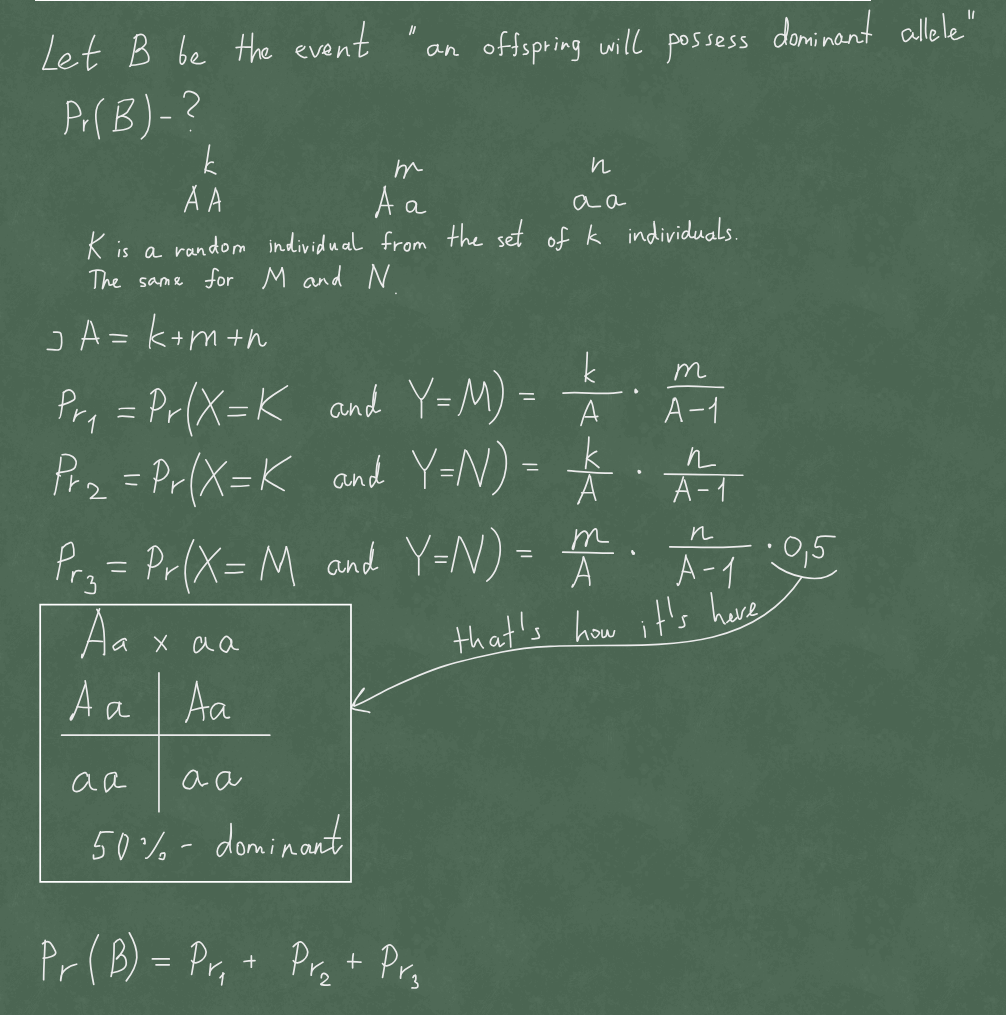
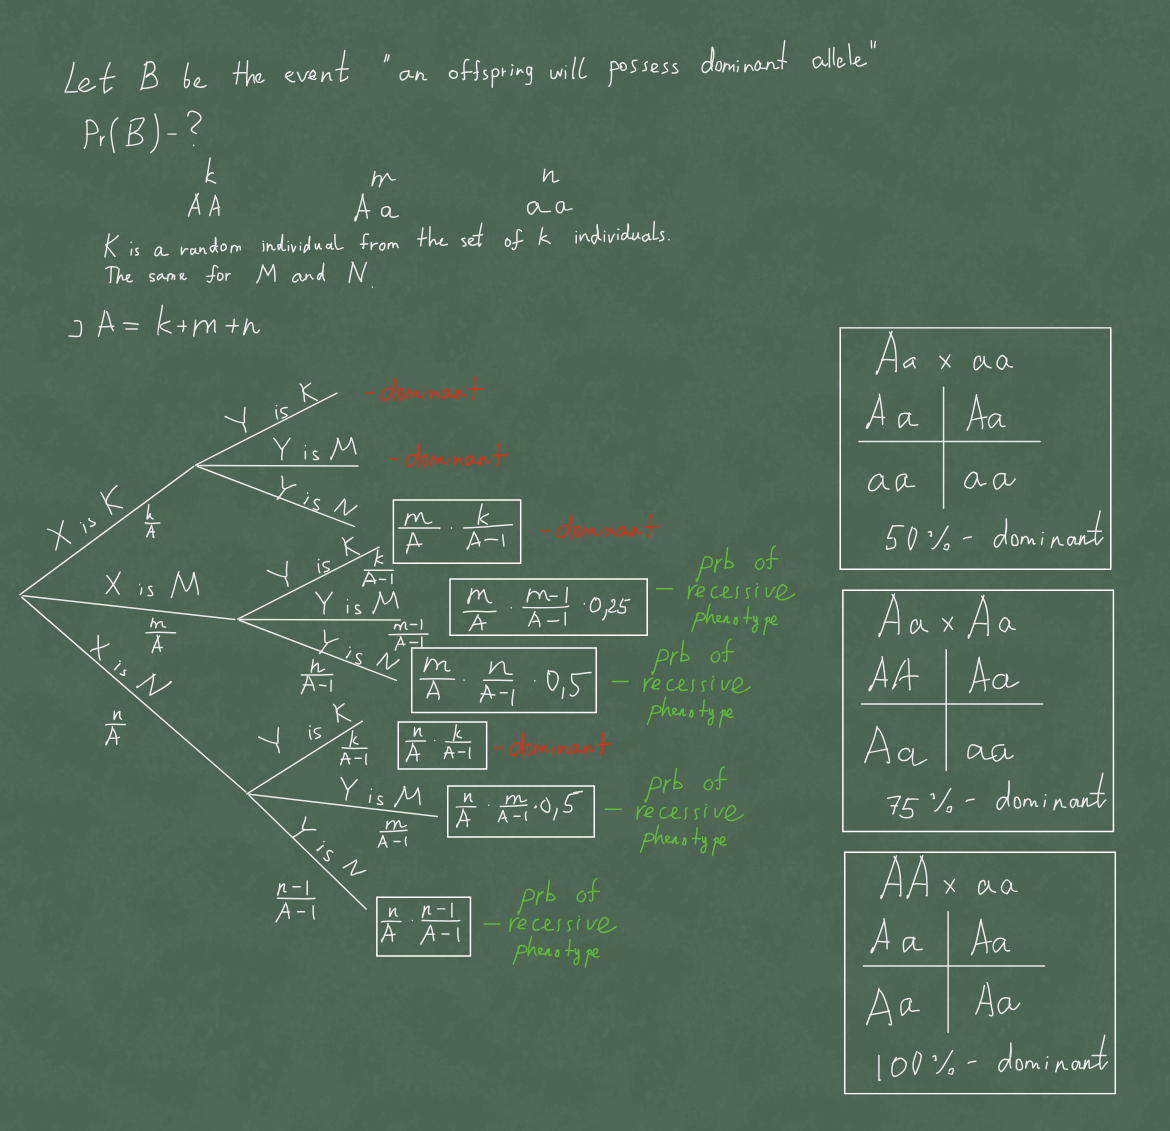
feat: 1) evaluating probabilites of events, when offspring have recessive phenotype

diff --git a/4_mendel1/mendel1.py b/4_mendel1/mendel1.py
@@ -6,4 +6,11 @@ k, m, n = map(int, data_path.read_text("utf-8").split())
 print(k, m, n)
 A = k + m + n
 
-print(A)
+Pr1 = (m/A)*((m-1)/(A-1))*0.25
+Pr2 = (m/A)*(n/(A-1))*0.5
+Pr3 = (n/A)*(m/(A-1))*0.5
+Pr4 = (n/A)*((n-1)/(A-1))
+
+Pr = 1 - (Pr1 + Pr2 + Pr3 + Pr4)
+
+print(Pr)
